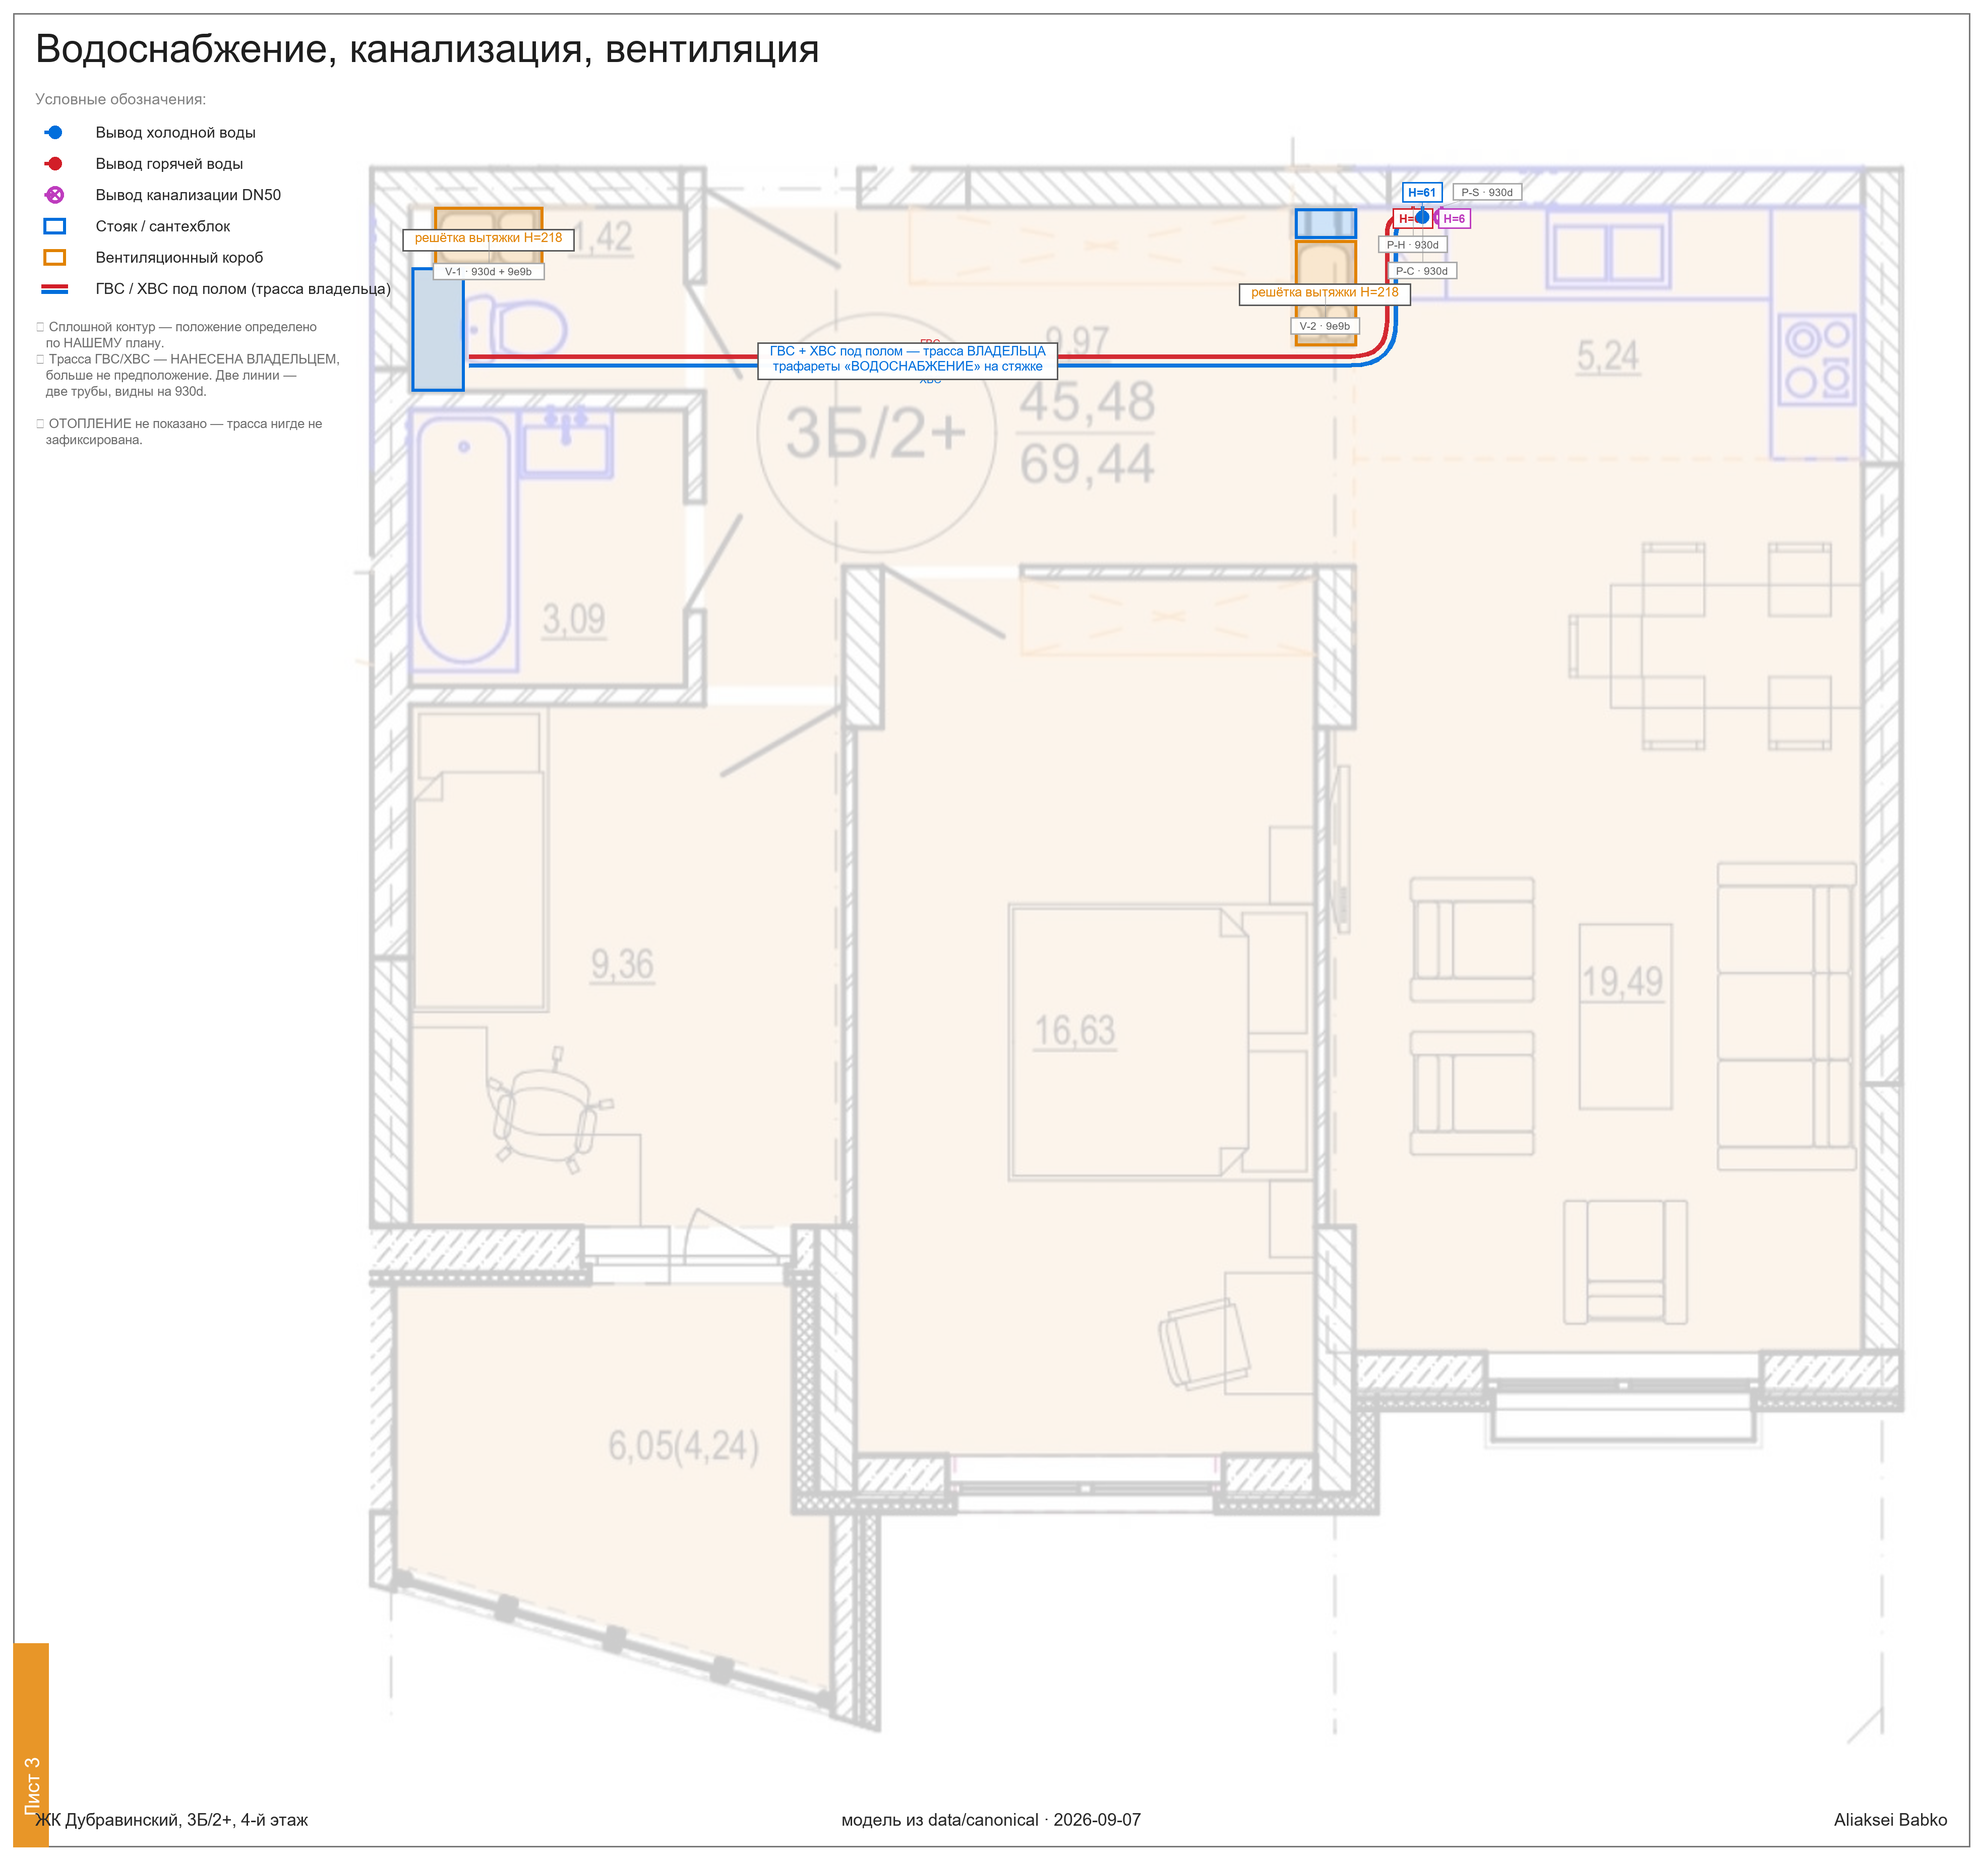
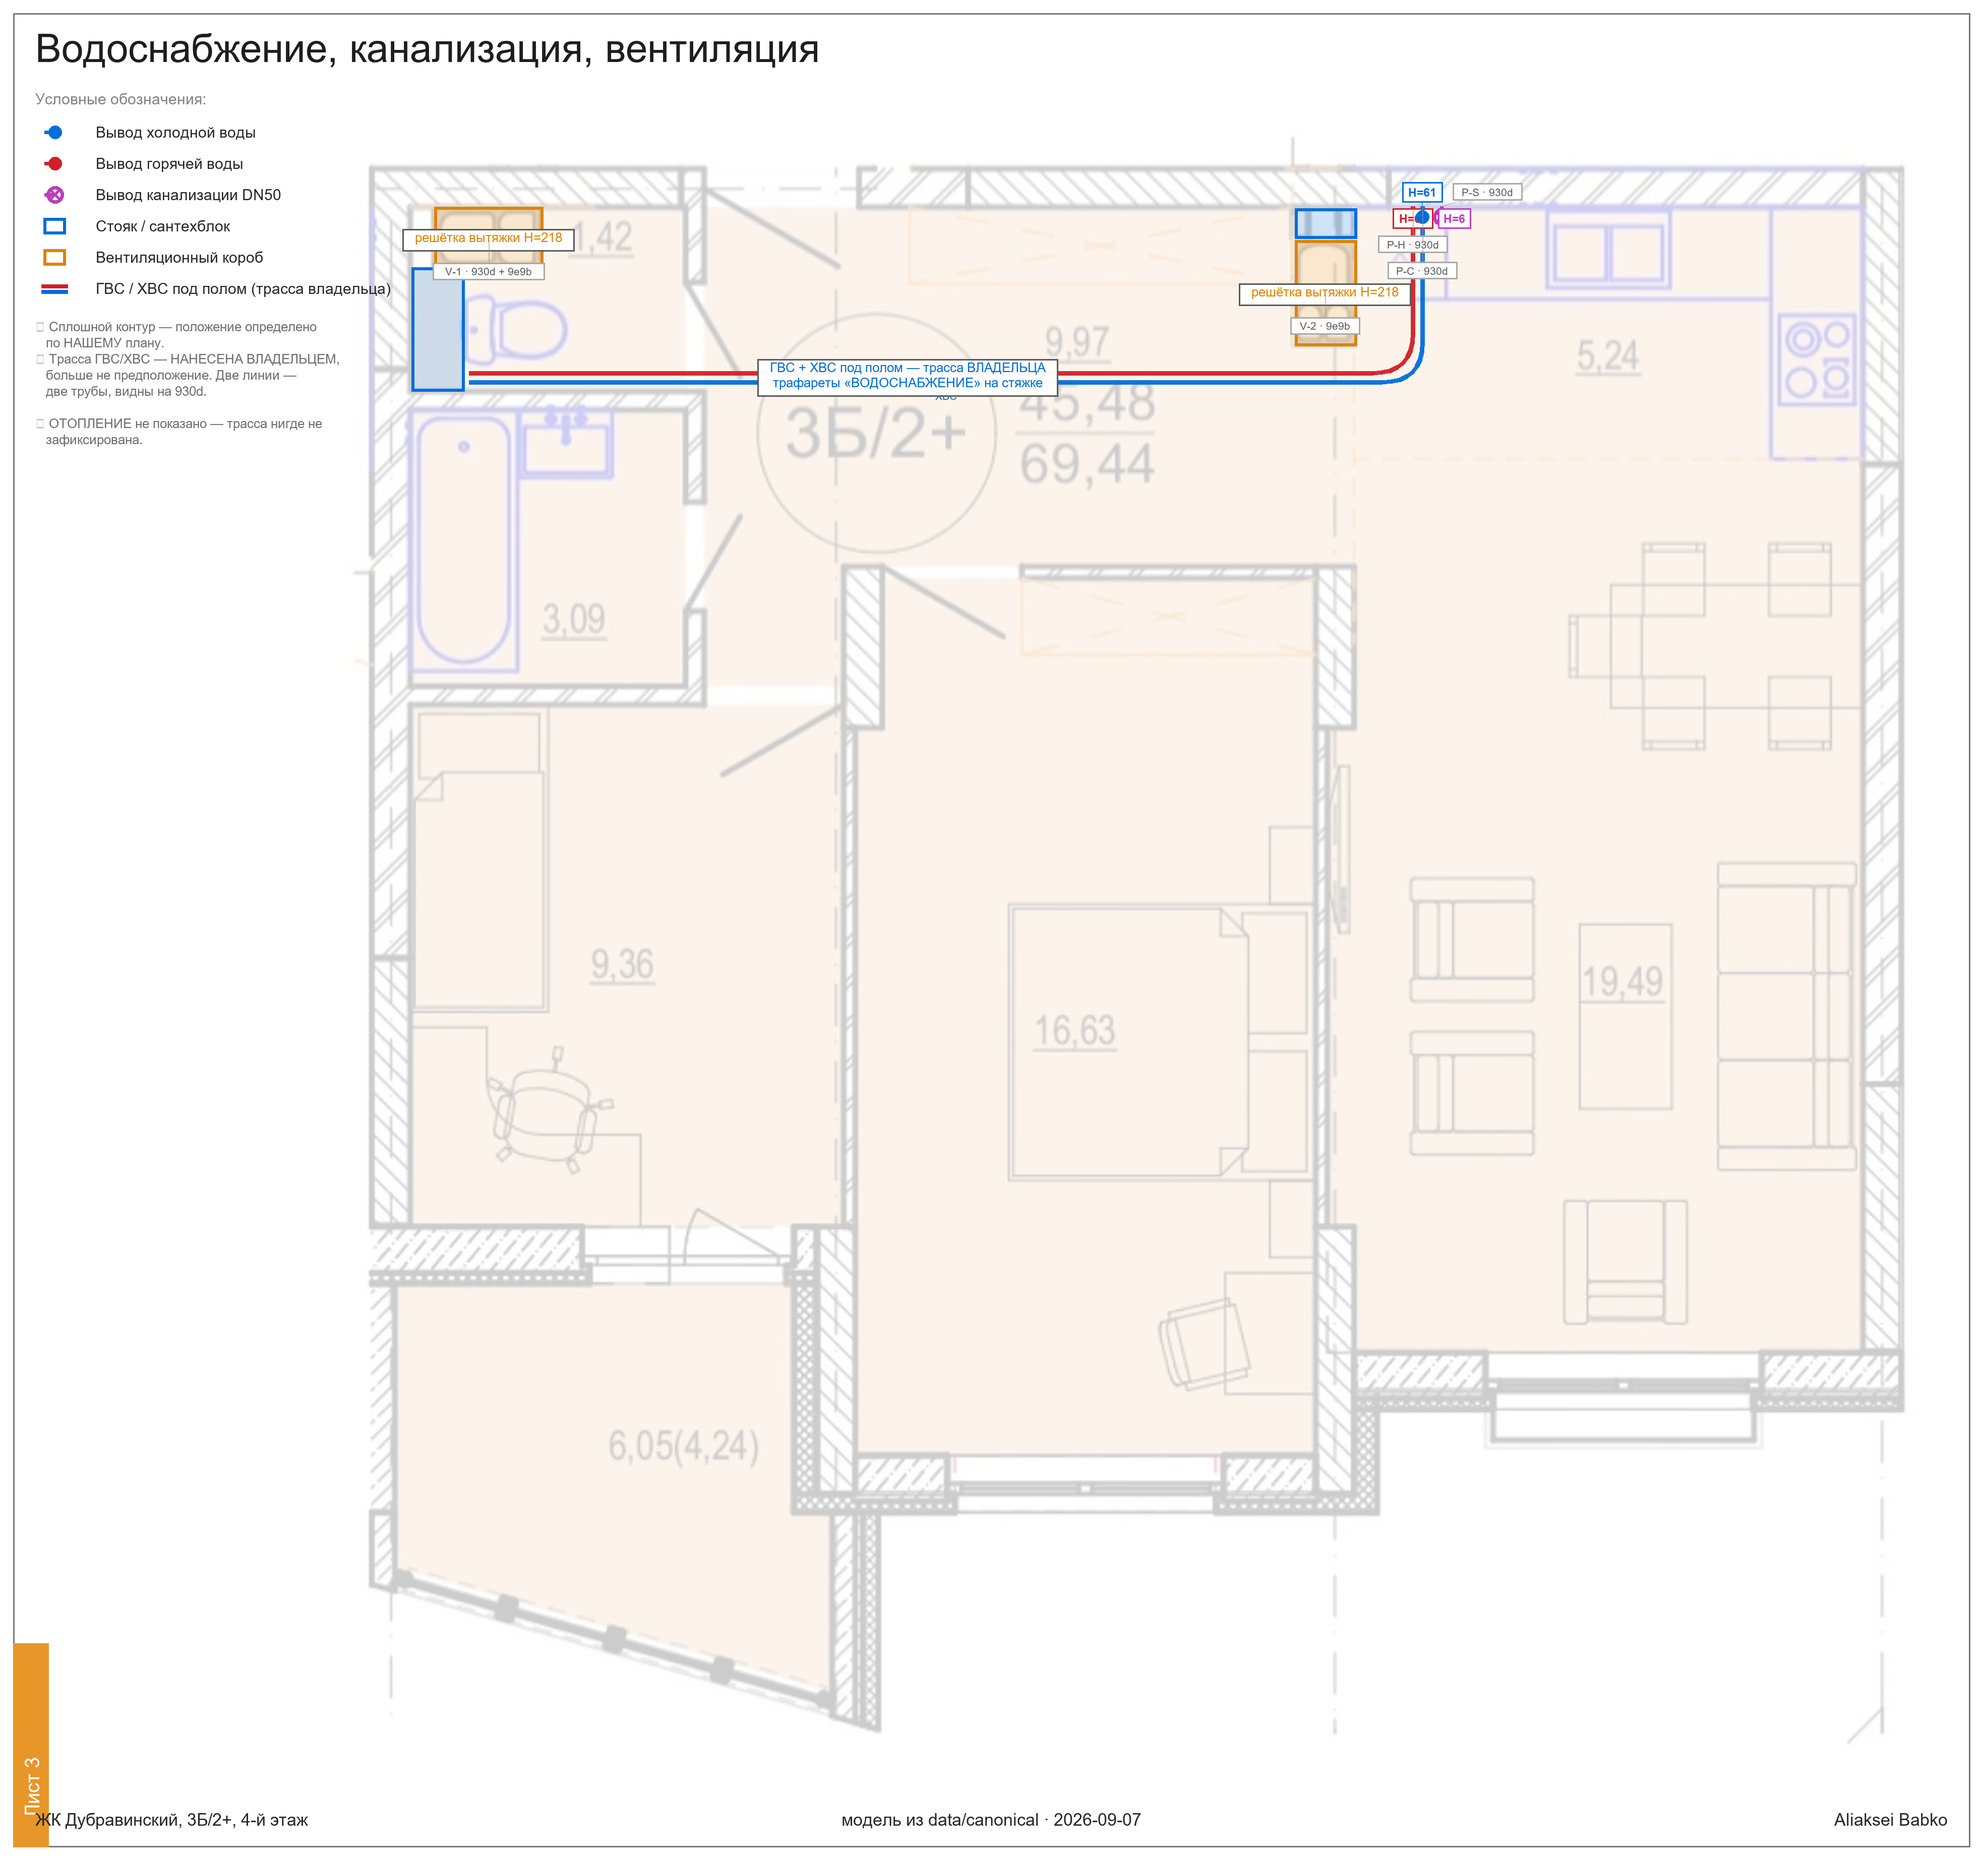
One turn per pipe, and the run moved onto the WC wall
Two corrections from the owner's arrows.

The extra turn: having moved the bend east of V2, I ran north at x=700 and
then east again to reach the take-offs. He: "they should approach the outlet
directly - right ahead, not making an additional turn." He is right, and the
reason is instructive. I was routing the PAIR as one polyline with a sideways
offset, so the pair had to arrive somewhere and then jog to each fitting.
Route each pipe to its OWN fitting and the jog disappears: both take-offs
(714.2 GVS, 720.5 HVS) already sit east of V2's east face at 677, so one turn
each is enough. A service pair is two runs, not one run drawn twice.

The horizontal run: y 172 -> 180/186, onto his black arrow. It now hugs G4b,
the WC's south wall - 67 mm clear of its face, 675 mm off V1 instead of 597 -
passing between the pan and the wall, where a pipe under the screed goes.

The block-clearance check now runs per route, and still catches the original
diagonal.

Changed region(s): [[0.2171, 0.1559, 0.7135, 0.2182]]

diff --git a/tools/layout/sheets/make_services_sheets.py b/tools/layout/sheets/make_services_sheets.py
@@ -235,36 +235,46 @@ for bid, (x0, y0, x1, y1), col in (('V1', (67, 70, 139, 111), OR), ('V2', (636, 
                                    ('P1', (52, 110, 87, 192), B), ('P2', (636, 71, 677, 91), B)):
     p0, p1 = s3.P((x0, y0)), s3.P((x1, y1))
     s3.d.rectangle([p0[0], p0[1], p1[0], p1[1]], fill=col + (48,), outline=col, width=6)
-# ВОДОСНАБЖЕНИЕ under the floor, drawn by the OWNER on sheet 3 and
-# replacing my dashed guess. His line: out of P1, straight EAST across the
-# прихожая at a constant level, then north up to the kitchen take-offs.
+# ВОДОСНАБЖЕНИЕ under the floor — the OWNER’s route, corrected twice by him.
 #
-# CORRECTED 2026-09-07, owner: my first rendering of his route turned north at
-# x=648 and ran DIAGONALLY to (690, 96) - straight through V2 (636..677 x
-# 92..162), a concrete ventilation shaft, and clipping P2 above it. A pipe
-# cannot cross concrete. The turn now happens EAST of the block instead:
-#   south of V2's south face (y=162) by 10 px = 98 mm,
-#   east  of V2's east  face (x=677) by 23 px = 225 mm.
-# Drawn with FILLETED corners, because a pipe bends on a radius; a sharp right
-# angle is a drawing convention, not a pipe.
-ROUTE = [(90, 172), (700, 172), (700, 78), (722, 78)]
-for off, col, lbl in ((-3.0, R, u'ГВС'), (3.0, B, u'ХВС')):
-    s3.polyline_rounded(ROUTE, col, width=9, offset=off, r_mm=260.0)
-    m = s3.P(((ROUTE[0][0] + ROUTE[1][0]) / 2.0, ROUTE[0][1] + off * 4))
-    s3.d.text(m, lbl, fill=col, font=s3.f_src, anchor='mm')
+# Round 1 (2026-09-07): my rendering of his line turned north at x=648 and ran
+# diagonally to (690, 96) — straight through V2, a concrete ventilation shaft.
+#
+# Round 2 (2026-09-07, same day, the black and blue arrows on his screenshot):
+#   (a) the horizontal run sat mid-туалет. It belongs LOWER — further from V1,
+#       the туалет’s own vent shaft, and hugging G4b, the туалет’s south wall.
+#       Now y=180/186 against G4b’s north face at 192.87: 67 mm clear, and
+#       675 mm off V1 instead of 597.
+#   (b) I had added a turn that isn’t there: north at x=700, then EAST again to
+#       reach the take-offs. He: “they should approach the wall, the outlet
+#       directly — right ahead, not making an additional turn. You made it turn
+#       left and then right.” He is right, and the reason is that BOTH outlets
+#       already sit east of V2’s east face (714.2 and 720.5 against 677), so
+#       each pipe needs exactly ONE turn: east along the floor, then straight
+#       north into its own outlet. My dogleg existed only because I routed the
+#       PAIR as one offset line instead of routing each pipe to its own fitting.
+#
+# So these are two independent routes, each ending on its own take-off, not one
+# line drawn twice.
+ROUTES = [(u'ГВС', R, [(90, 180), (714.22765, 180), (714.22765, 69.9953)]),
+          (u'ХВС', B, [(90, 186), (720.49225, 186), (720.49225, 69.9953)])]
 
-# and the check: no routed segment may cross a shaft or a plumbing block.
-# The junction check taught this - a check that cannot fail is not a check.
+# no routed segment may cross a shaft or a plumbing block. The junction check
+# taught this — a check that cannot fail is not a check.
 BLOCKS = {'V1': (67, 70, 139, 111), 'V2': (636, 92, 677, 162),
           'P1': (52, 110, 87, 192), 'P2': (636, 71, 677, 91)}
-# P1 is the riser the route takes off FROM, so it is excluded by name,
-# not by loosening the tolerance until the check stops complaining.
-bad = route_block_conflicts(ROUTE, BLOCKS, clear_mm=60.0, connects=('P1',))
-if bad:
-    raise SystemExit(u'ROUTE crosses a service block: %s' % u'; '.join(bad))
-print(u'  route/block clearance: %d segments, all clear of %d blocks'
-      % (len(ROUTE) - 1, len(BLOCKS)))
-s3.callout(*(list(s3.P((380, 172))) + [[u'ГВС + ХВС под полом — трасса ВЛАДЕЛЬЦА',
+for lbl, col, route in ROUTES:
+    # P1 is the riser each route takes off FROM, so it is excluded by name,
+    # not by loosening the tolerance until the check stops complaining.
+    bad = route_block_conflicts(route, BLOCKS, clear_mm=60.0, connects=('P1',))
+    if bad:
+        raise SystemExit(u'%s route crosses a service block: %s' % (lbl, u'; '.join(bad)))
+    s3.polyline_rounded(route, col, width=9, offset=0.0, r_mm=260.0)
+    m = s3.P(((route[0][0] + route[1][0]) / 2.0, route[0][1] + (-5 if col is R else 9)))
+    s3.d.text(m, lbl, fill=col, font=s3.f_src, anchor='mm')
+print(u'  route/block clearance: %d routes, all clear of %d blocks, 1 turn each'
+      % (len(ROUTES), len(BLOCKS)))
+s3.callout(*(list(s3.P((380, 183))) + [[u'ГВС + ХВС под полом — трасса ВЛАДЕЛЬЦА',
                                         u'трафареты «ВОДОСНАБЖЕНИЕ» на стяжке'], B]))
 
 PIPES = [('P-H', 'G3', 0.055, +1, R, 'water', 61, u'горячая, из пола', '930d'),
